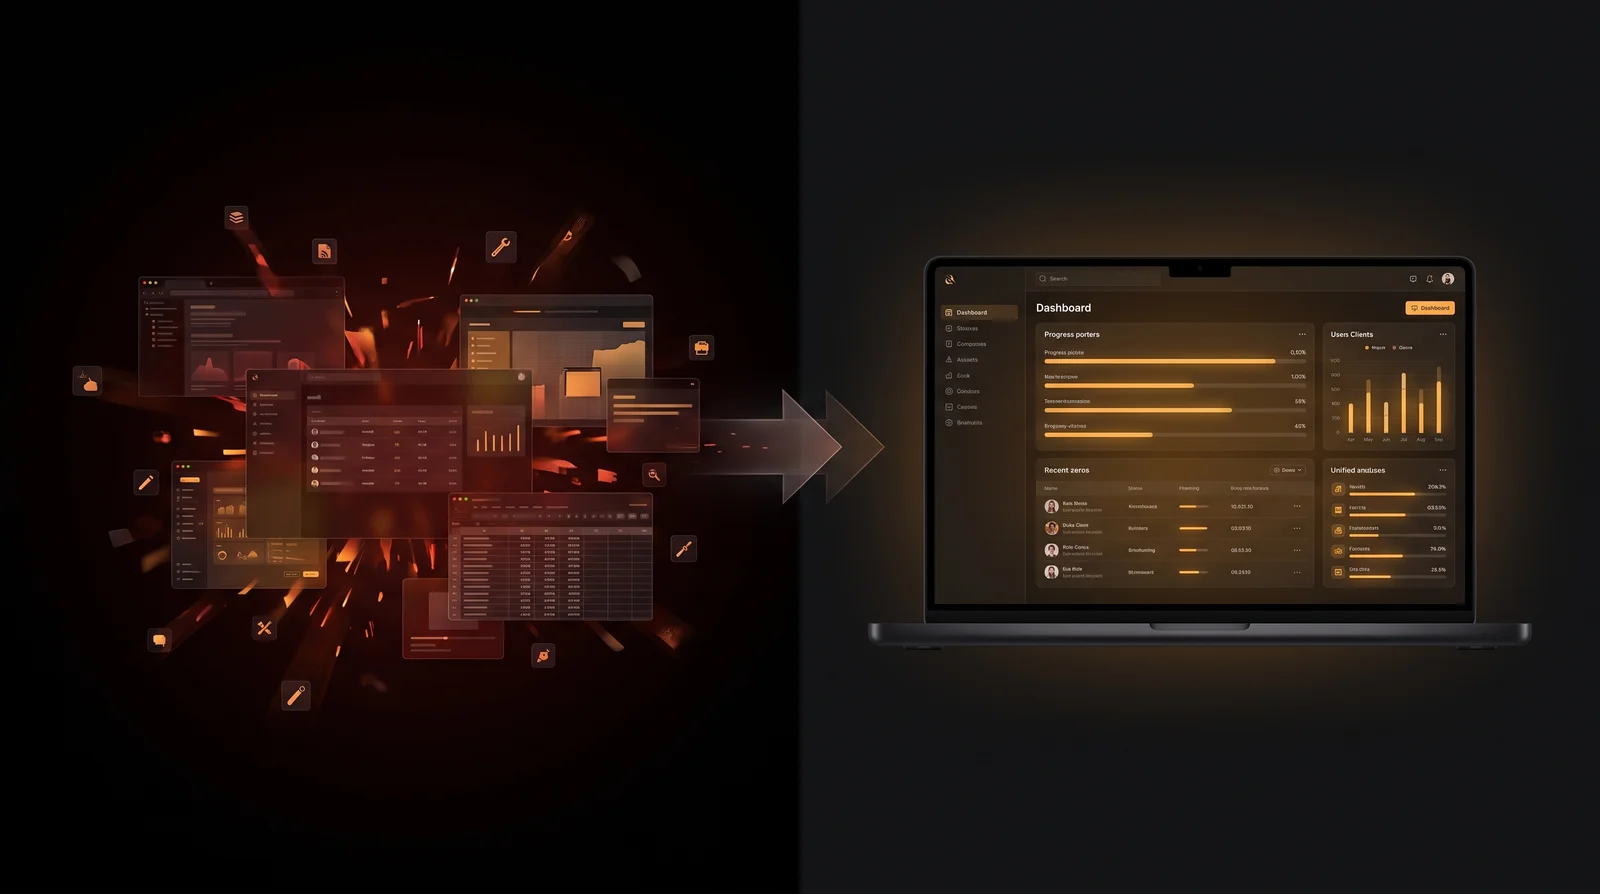
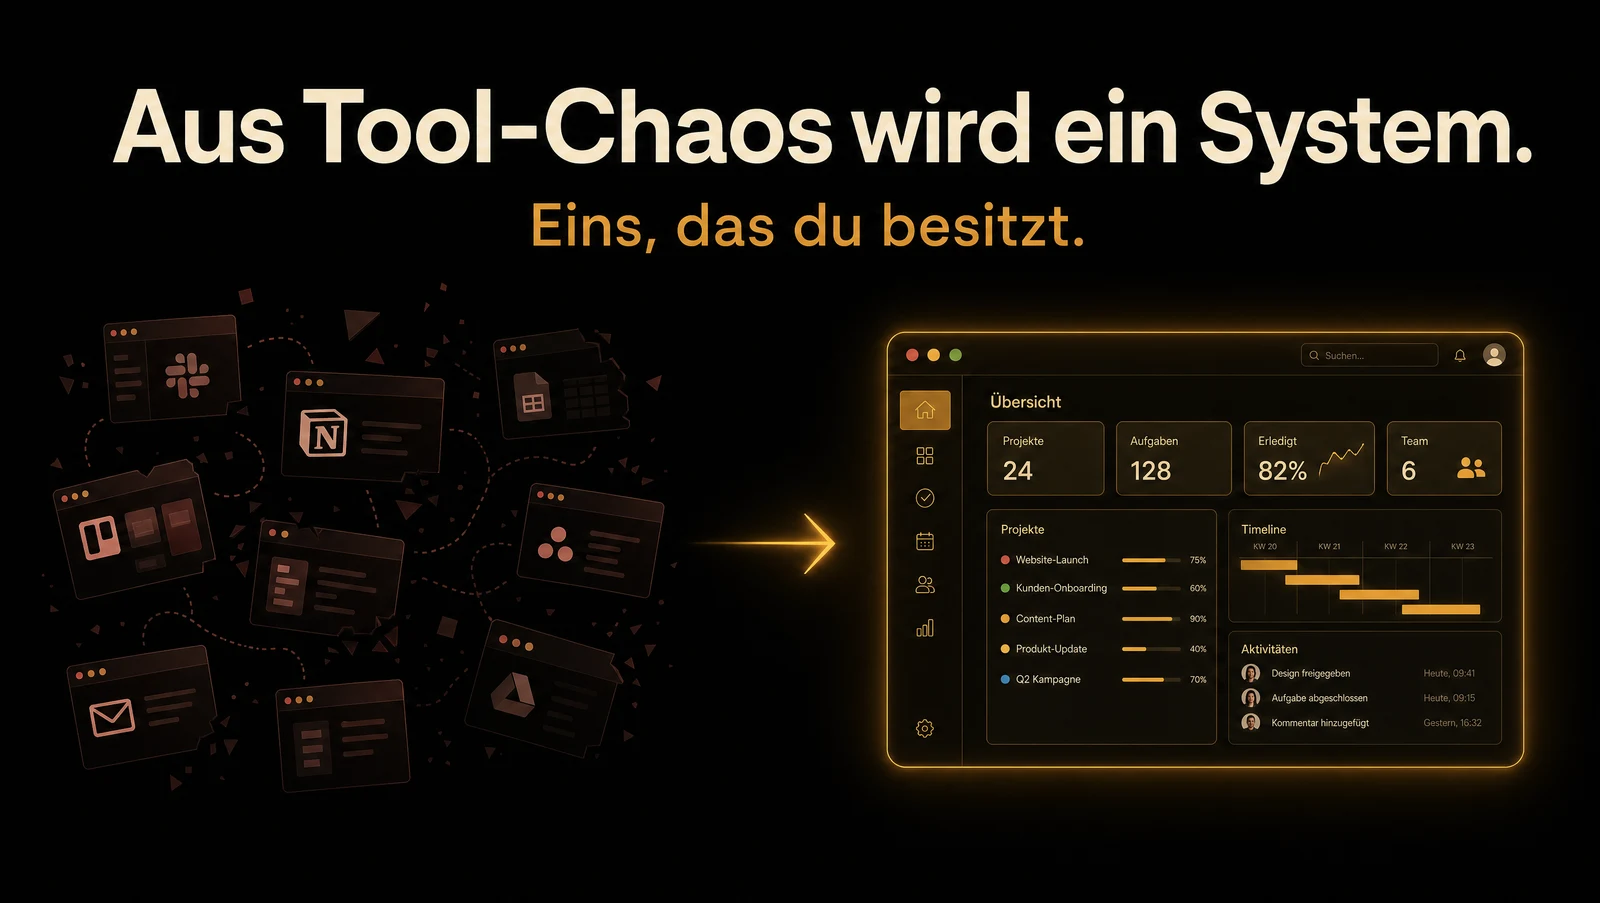
Bake caption text directly into chaos-to-portal graphic
Regenerates the visual with the German headline/subline rendered inside
the image itself (gpt_image_2, accurate text), replacing the separate
HTML caption underneath.

Claude-Session: https://claude.ai/code/session_01Fv5E6jcMdjpaNDmjUW3CLQ

diff --git a/onyx-3d/components/ProblemSection.tsx b/onyx-3d/components/ProblemSection.tsx
@@ -201,18 +201,12 @@ export default function ProblemSection() {
           >
             <Image
               src="/generated/chaos-to-portal.webp"
-              alt="Viele einzelne Tools und Excel-Listen verschmelzen zu einem einzigen, aufgeräumten Portal"
+              alt="Aus Tool-Chaos wird ein System. Eins, das du besitzt."
               width={1600}
-              height={894}
+              height={903}
               className="w-full h-auto block"
             />
           </div>
-          <p
-            className="mono mt-4"
-            style={{ fontSize: 13, color: "var(--warm-grey-faint)", textAlign: "center" }}
-          >
-            Aus Tool-Chaos wird ein System — eins, das du besitzt.
-          </p>
         </div>
       </div>
     </section>
